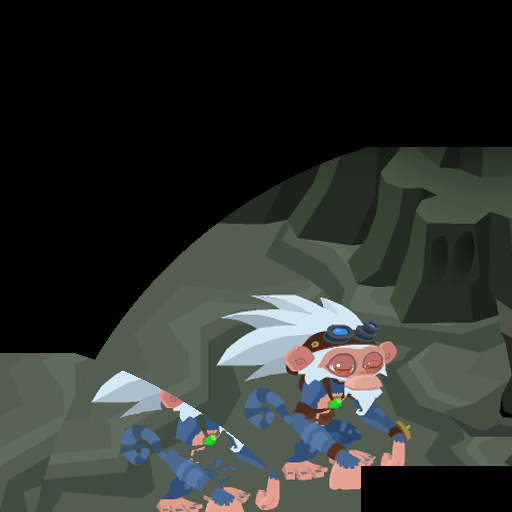
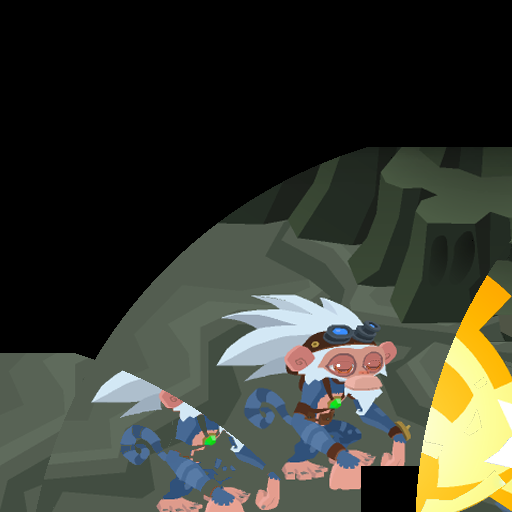
Mapping session 1: the start room and the first corridor stops; pilot keeps its position across survey legs, masks the animal and dialogs out of the mosaic

Changed region(s): [[0.8125, 0.5, 1.0, 1.0]]

diff --git a/handoff.md b/handoff.md
@@ -2,6 +2,25 @@
 
 _Last updated: 2026-11-02 evening (interface overhaul, the Mapping tab, the first live pilot steps)_
 
+## First live mapping session (2026-11-02 16:38-17:10, PC): what happened
+- Session `captures/sessions/20261102_163835_mystery_below_pilot` (log + recording; the
+  recorder's own folder `..._163838_...` holds the frames of the first minutes, before the
+  `--session-dir` fix). Budget 240 min, goal "map the moth chamber".
+- Through the pilot: surveyed the start room (walls south and west, open up / up-right /
+  right), scanned it (Cosmo's blue coat read as an unlit crystal and the glowing start
+  fungus as a lit crystal: forgotten, both NPCs marked), picked 3 blossoms by the paw pin,
+  lit the first crystal with a drag from the slot (counter 3 -> 2, Cosmo's and Graham's
+  dialogs closed by their X), the banner moved to "make a path for the glow moth".
+- A batch (`goto` spot, `survey`, `scan` at each plan stop) mapped two stops of the first
+  corridor (walls on six and three sides, 32 and 26 s per stop) before the guardrail
+  refused the third: William was at the keyboard. World now: 19 collisions, 512 walked
+  cells, 2 NPCs, mosaic 1.6% of the area; `profiles/levels/mystery_below/world/`.
+- **Next session:** continue the batch from stop 3 (`1582.7,841.3`) through the plan's 80
+  chamber stops (list them from `level.json` in plan order); review the map crop after
+  each batch and `forget` / `mark` the false things; the first path's crystals 2, 3, 9 are
+  what leads the first moth to the door. The keepalive keeps the account alive between
+  sessions; `pilot status` shows the session and the server.
+
 ## Interface overhaul, the Mapping tab, first live pilot steps (2026-11-02 evening, PC)
 William's answers: purple crystals and cracked rocks break by **repeated clicks** (several
 each); sessions travel in the sync bundle; the desktop is the main machine for a while;
